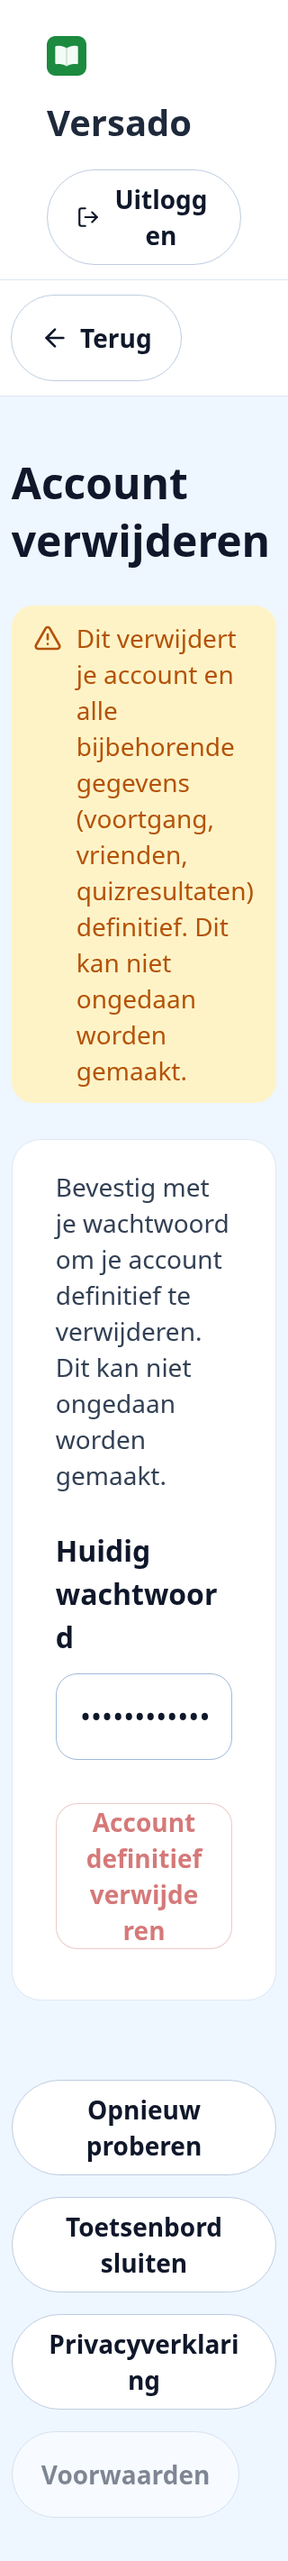
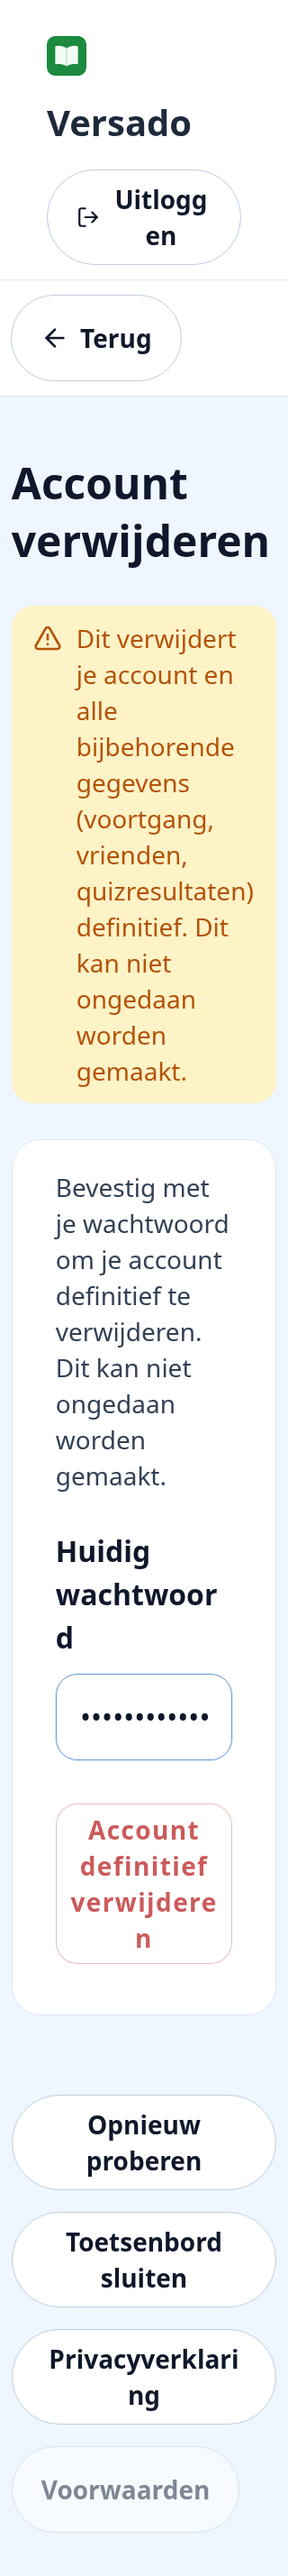
Houd de verwijderactie leesbaar bij brede systeemletters en grote tekst

diff --git a/src/components/account/AccountDeletionForm.tsx b/src/components/account/AccountDeletionForm.tsx
@@ -51,7 +51,7 @@ export default function AccountDeletionForm({ passwordLoginEnabled, totpEnabled,
           </SettingsField>}
           {error && <div className="px-2 pt-1"><SettingsStatus kind="error">{error}</SettingsStatus></div>}
           <SettingsActions>
-            <SettingsButton type="submit" variant="danger" disabled={loading || !password || (totpEnabled && !code)}>
+            <SettingsButton type="submit" variant="danger" className="w-full min-w-0 !px-1 py-1" disabled={loading || !password || (totpEnabled && !code)}>
               {loading ? t("courses.busy") : t("accountDeletion.submit")}
             </SettingsButton>
           </SettingsActions>
